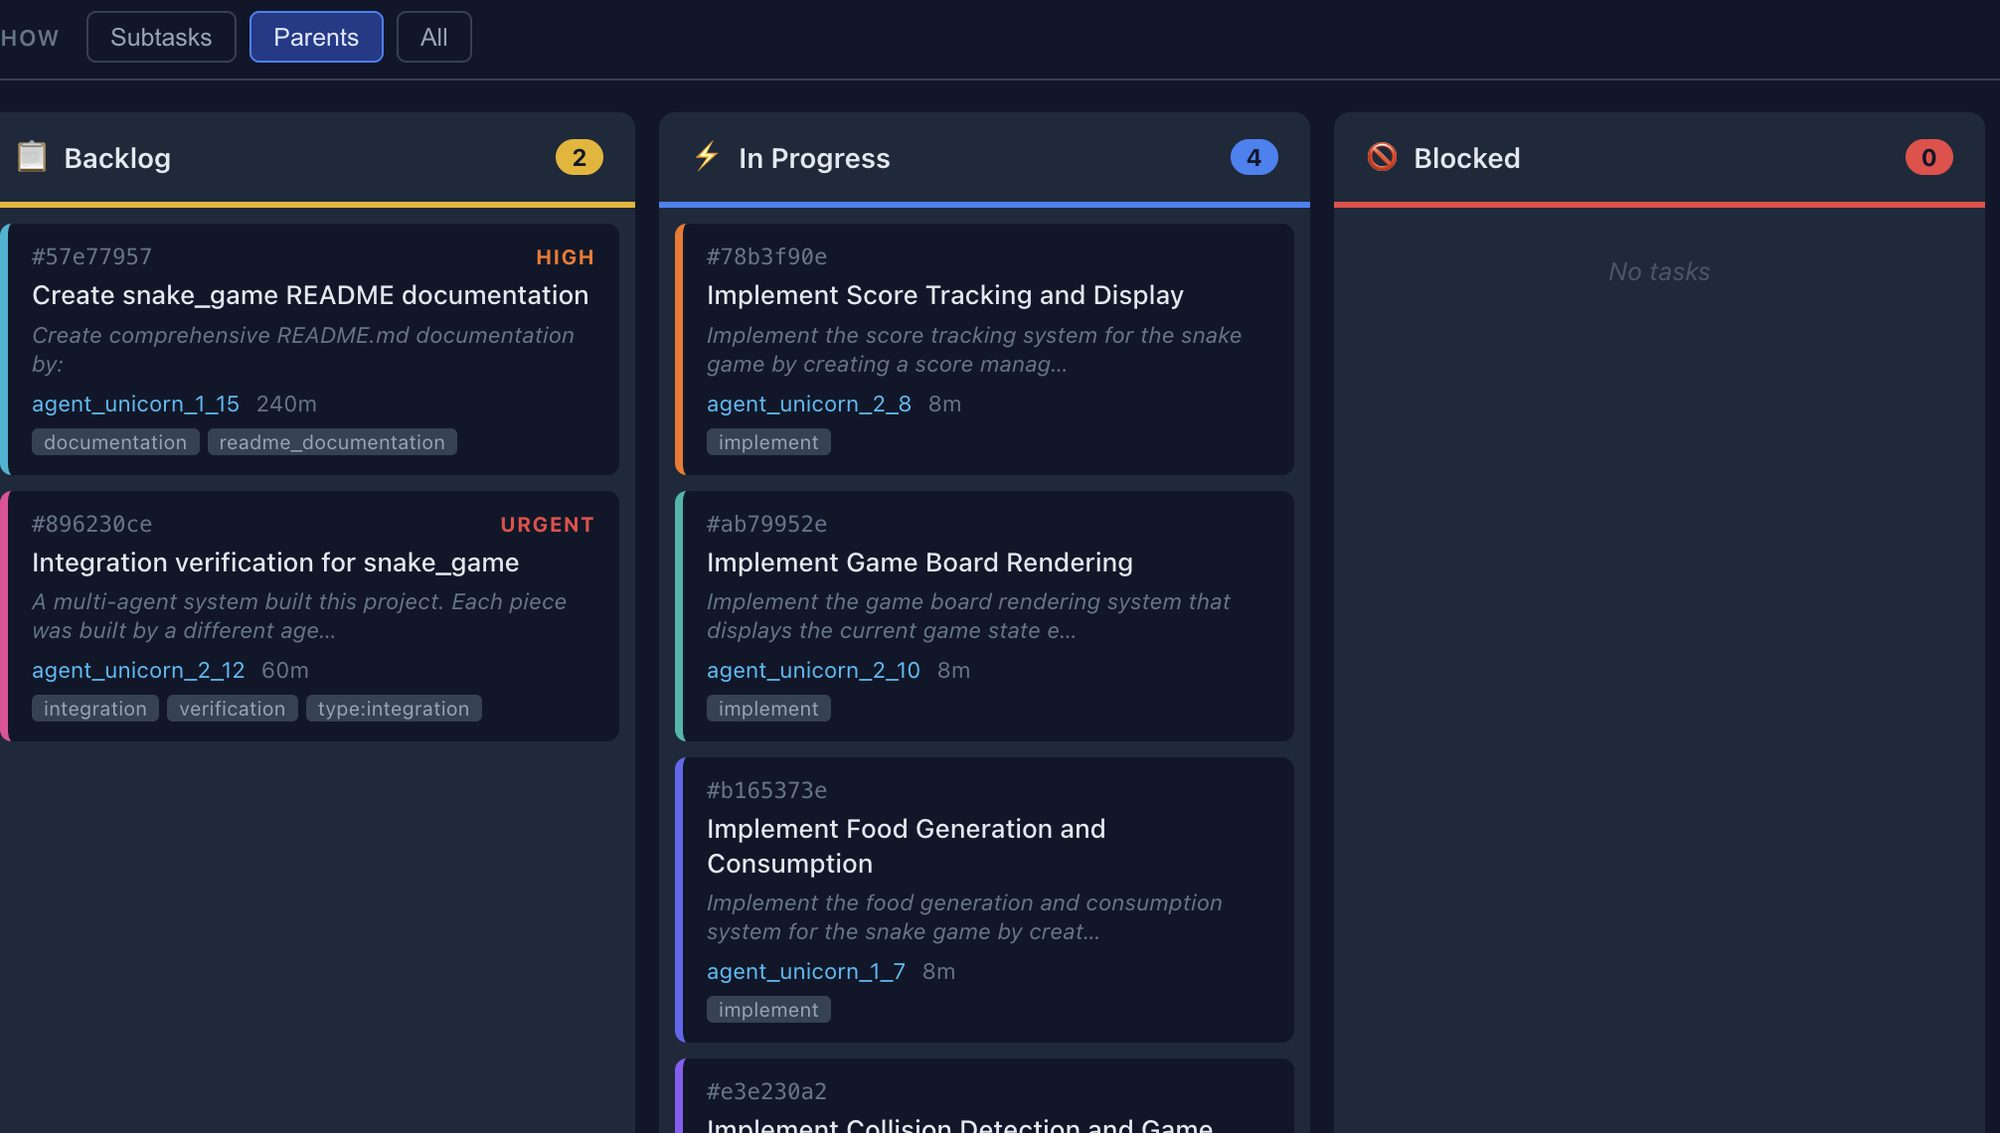
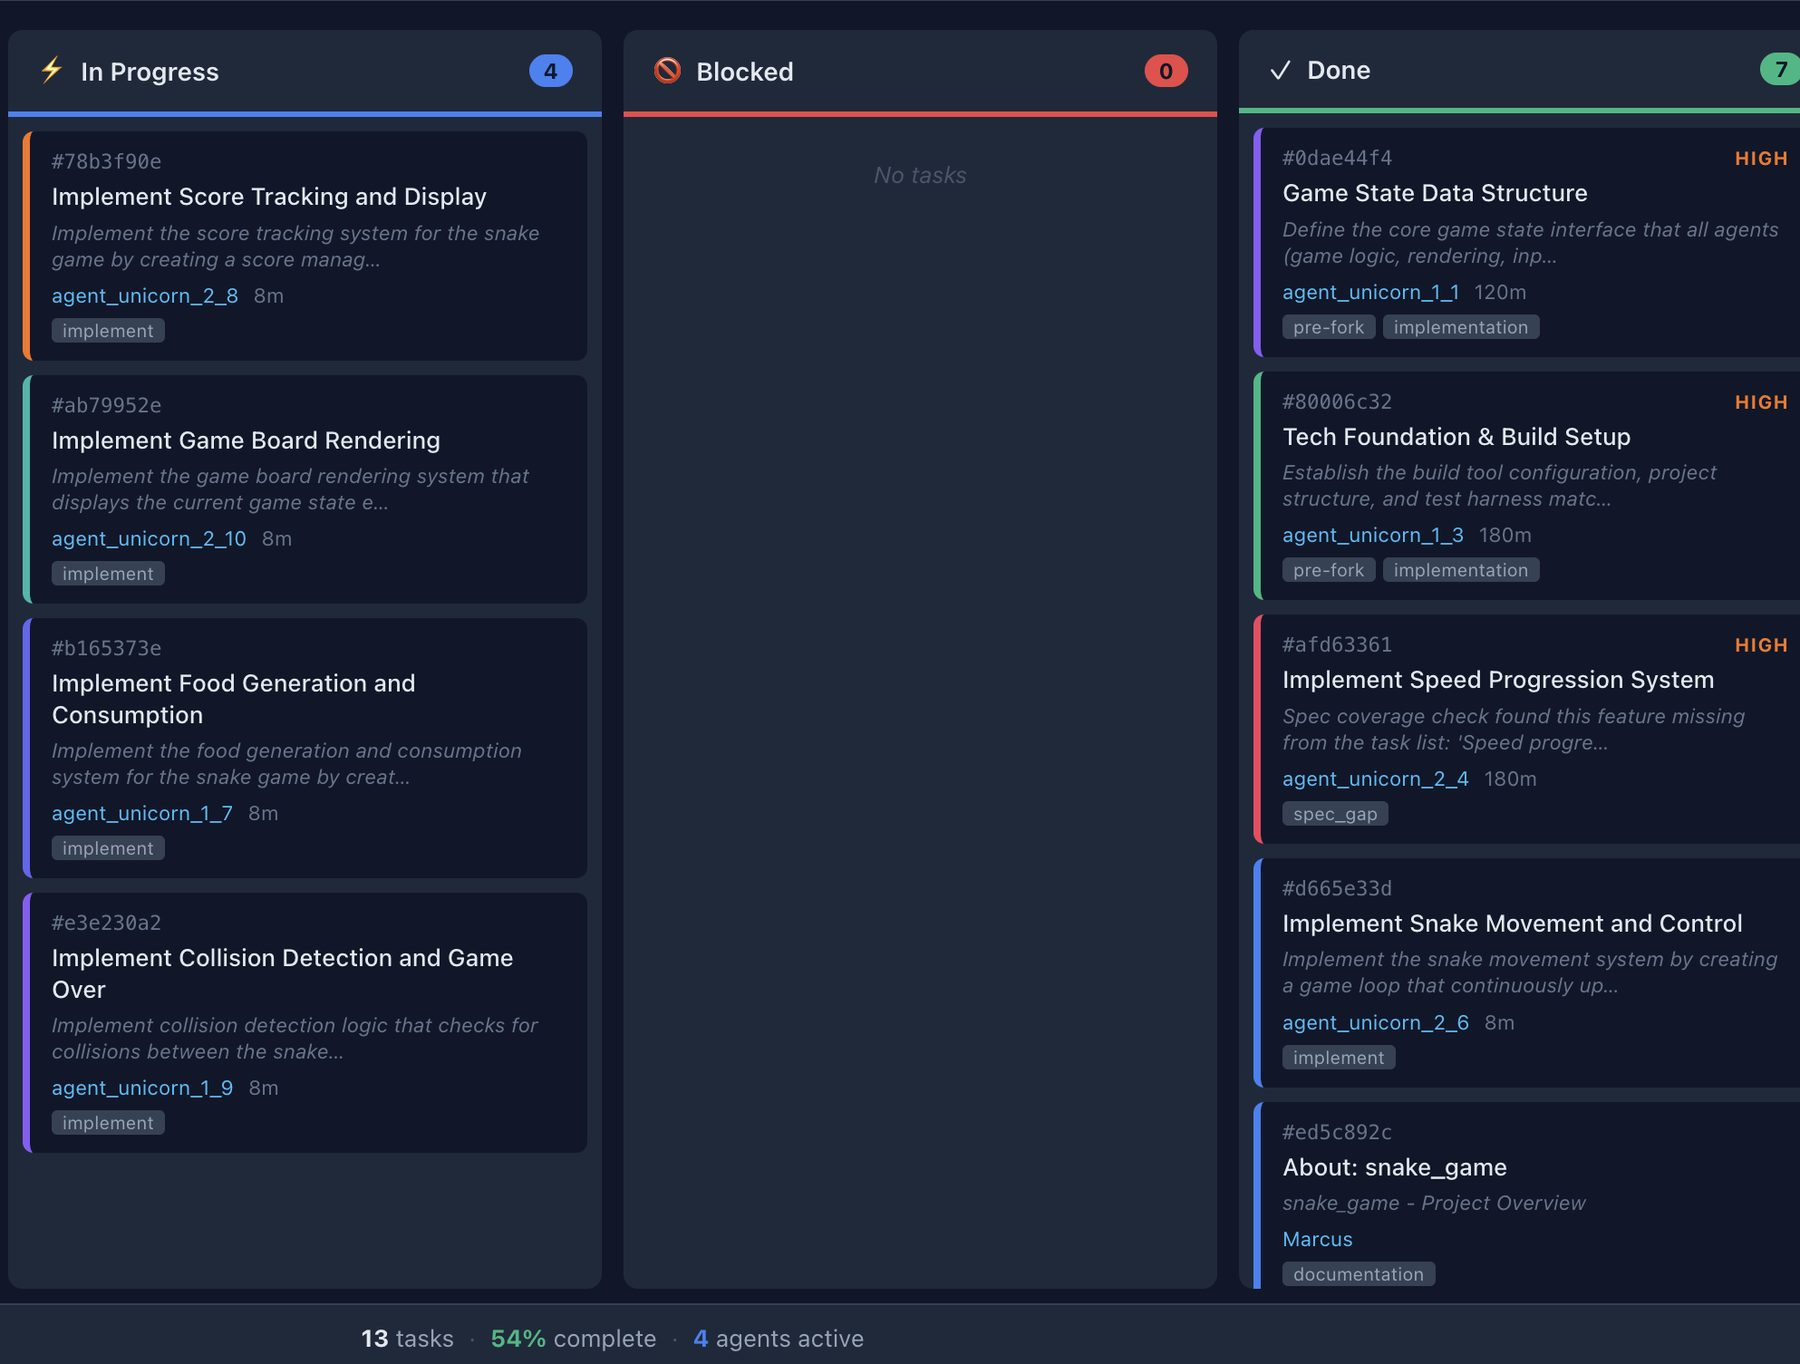
get images sizes correct

diff --git a/index.html b/index.html
@@ -278,7 +278,7 @@
   /* Marcus: text beside a figure */
   .work-split { display: block; }
   .work-text { max-width: 42em; }
-  .work-figure { margin: 36px 0 0; }
+  .work-figure { margin: 36px 0 0; max-width: 820px; }
   .work-figure figcaption { font-size: 0.9rem; color: var(--fg-dim); margin-top: 12px; max-width: 48em; }
   @media (max-width: 860px) { .work-split { grid-template-columns: 1fr; gap: 28px; } }
 
@@ -430,8 +430,8 @@
           <figcaption>Decompose: the dependency graph Marcus built for the same project before any agent started. Two foundation tasks, five that can run in parallel, one integration gate, one write-up at the end. Every node is green at 100 percent except the README, which was still being written.</figcaption>
         </figure>
         <figure class="work-figure">
-          <a href="img/cato-board.jpg" aria-label="Open this screenshot at full size"><img src="img/cato-board.jpg" alt="Cato, the Marcus visualization layer, showing the Kanban board for a snake game project: two tasks in backlog, four in progress, none blocked, seven done, with the agent and minutes recorded on each card" width="2000" height="1133" loading="lazy" decoding="async"></a>
-          <figcaption>Coordinate: the same project on the board, eighteen minutes in. 13 tasks, four agents working in parallel, nothing in the blocked column, and not one message between them. Every card names the agent that holds it and how long it has had it.</figcaption>
+          <a href="img/cato-board.jpg" aria-label="Open this screenshot at full size"><img src="img/cato-board.jpg" alt="Cato board for the snake game project showing the In Progress, Blocked, and Done columns: four tasks in progress, none blocked, seven done, each card naming its agent and elapsed minutes" width="1800" height="1364" loading="lazy" decoding="async"></a>
+          <figcaption>Coordinate: the same project on the board, eighteen minutes in. Four agents working in parallel, seven tasks done, nothing blocked, two more waiting in a backlog column out of frame, and not one message between them. Every card names the agent that holds it and how long it has had it.</figcaption>
         </figure>
         </div>
       </div>
